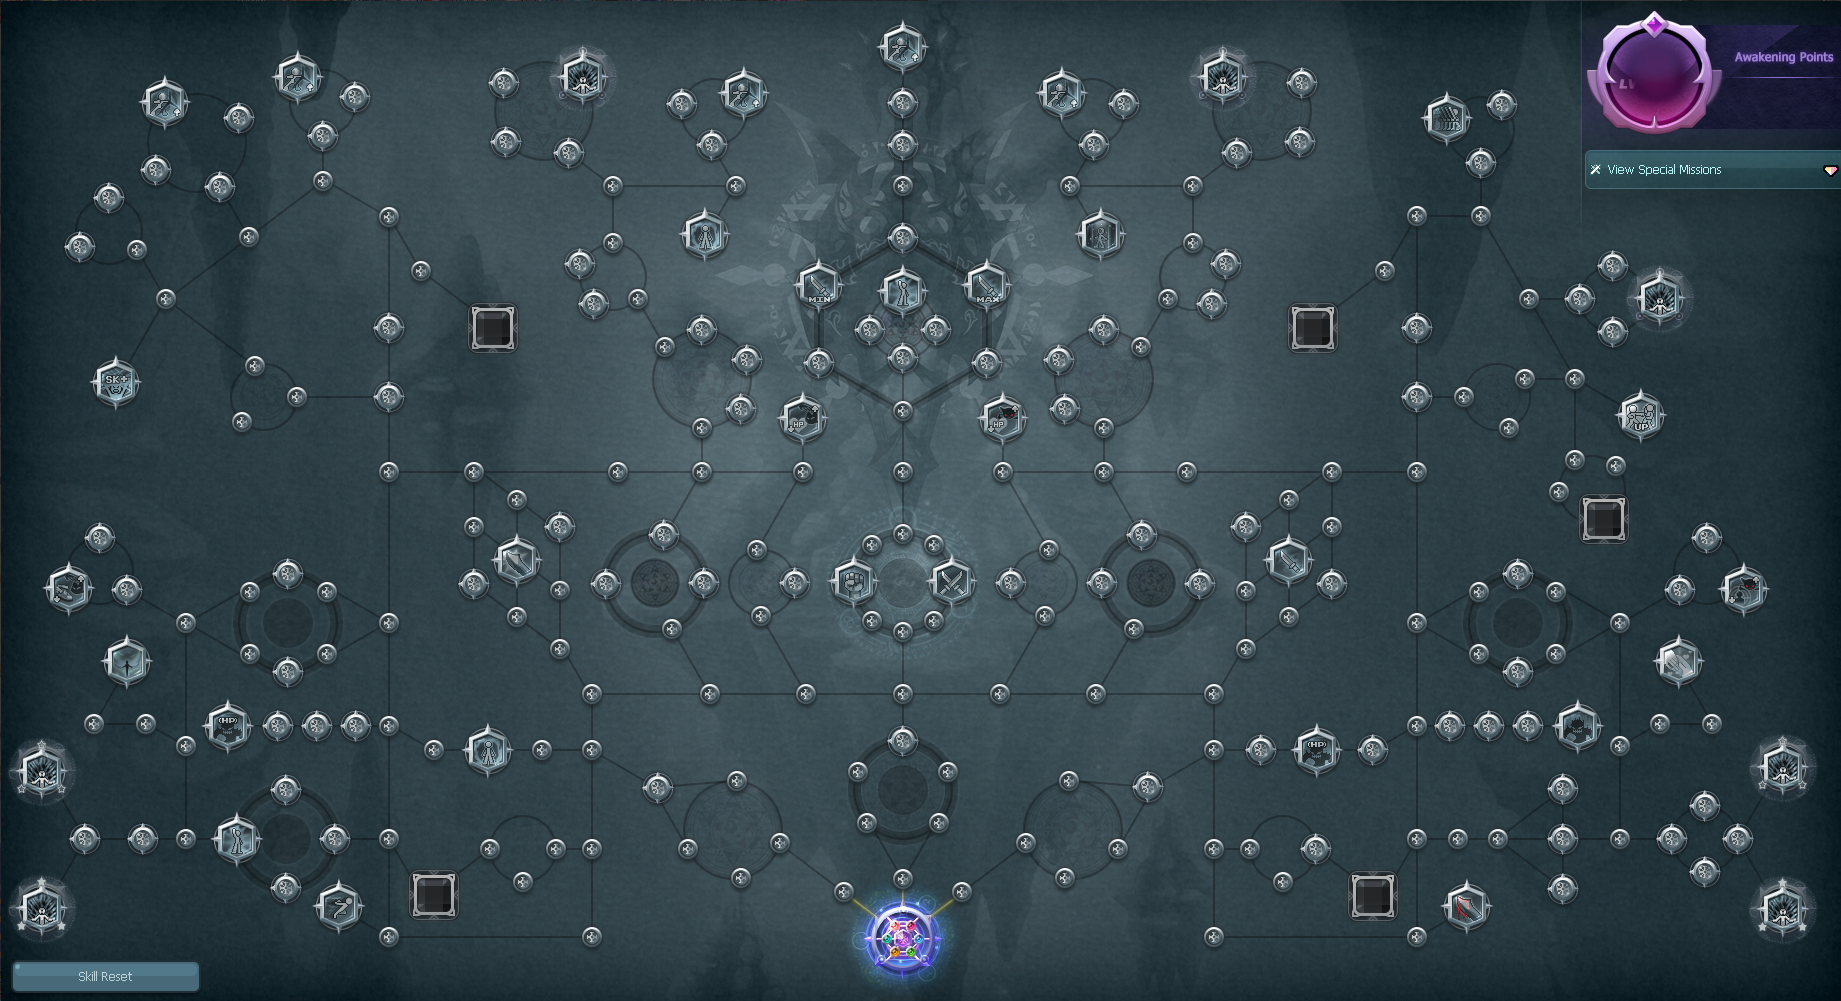
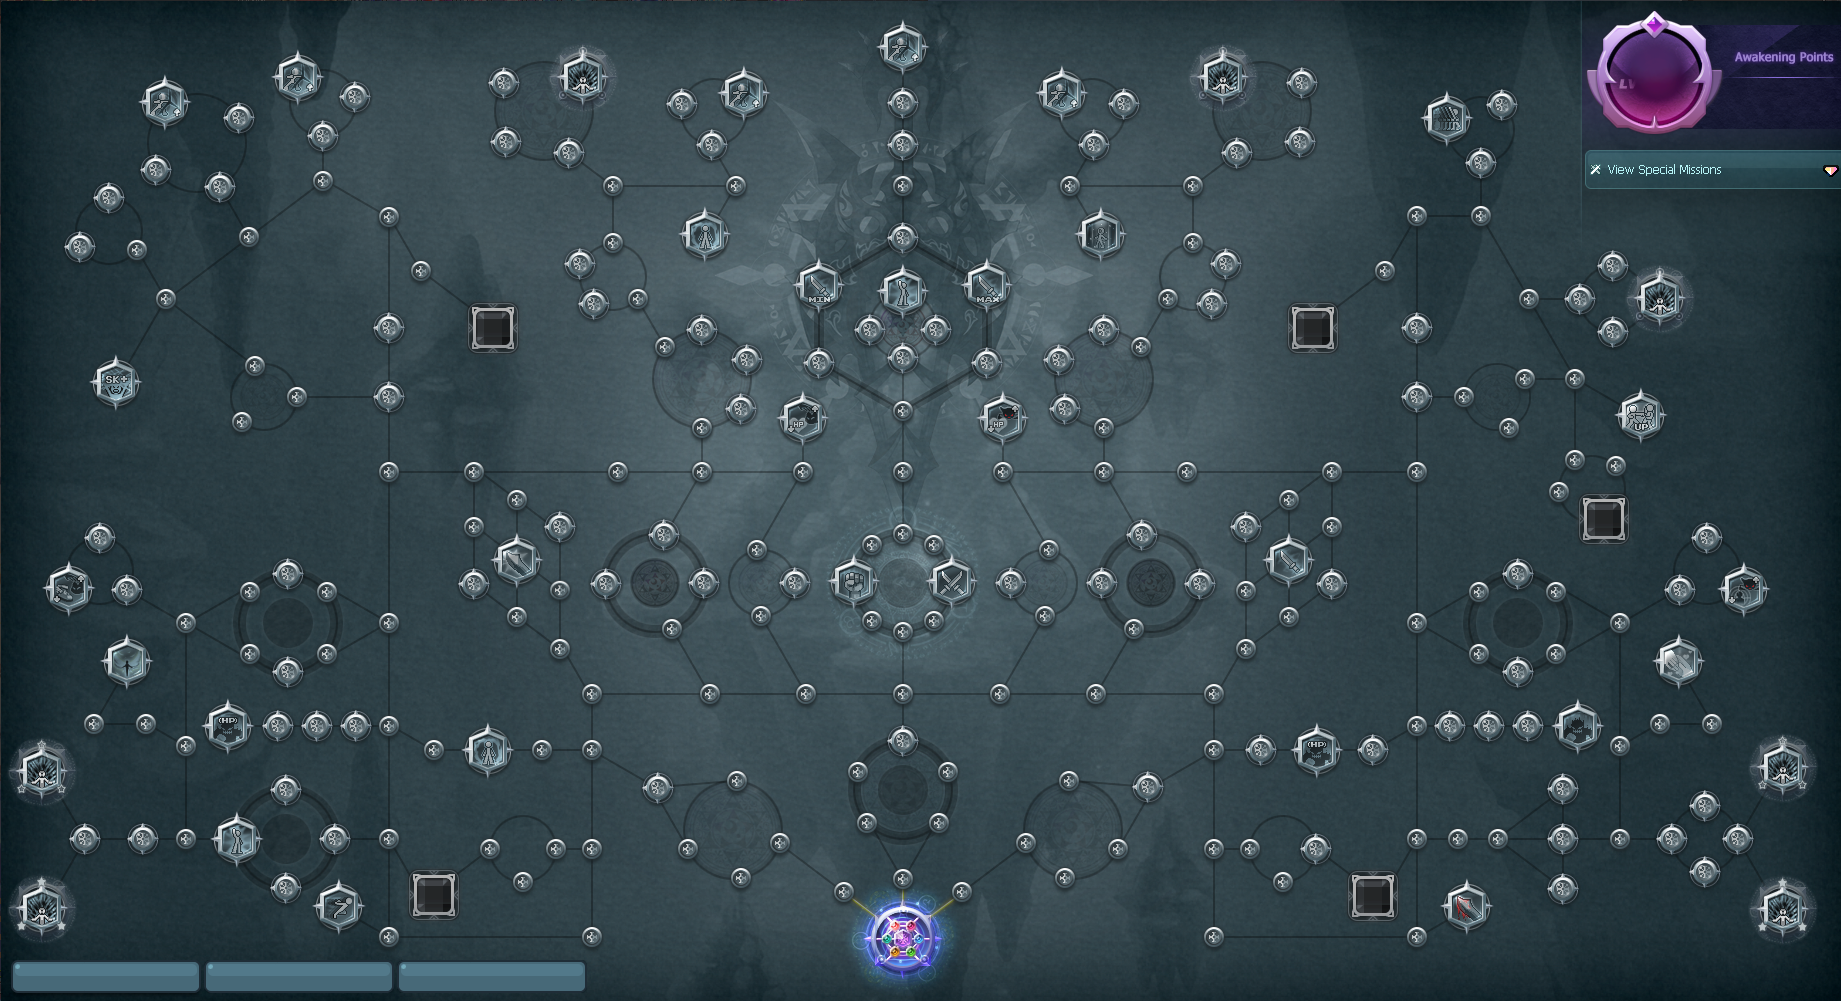
Implemented node prioritization and optimization

Changed region(s): [[0.0929, 0.96, 0.3406, 0.991]]

diff --git a/index.js b/index.js
@@ -1,5 +1,6 @@
 window.onload = init;
 var board = Object.assign({}, ...initialBoard.map((node) => ({[node.id]: {"id": node.id, "x": node.x, "y": node.y, "active": node.active, "connectedNodes": node.connectedNodes}})));
+var nodeSelectionEnabled = false;
 
 function init() {
 	let canvas = document.getElementById("board");
@@ -13,7 +14,18 @@ function init() {
 		console.log("Node: " + nodeId);
 		leftClick(nodeId, ctx);
 		if (isResetButton(position.x, position.y)) {
-			resetBoard(ctx);
+			resetBoard(true);
+			drawAll(ctx);
+		}
+		
+		if (isNodeSelectionButton(position.x, position.y)) {
+			nodeSelectionEnabled = !nodeSelectionEnabled;
+			drawAll(ctx);
+		}
+		
+		if (isOptimizeButton(position.x, position.y)) {
+			generateOptimalTree();
+			drawAll(ctx);
 		}
 	});
 	
@@ -23,6 +35,16 @@ function init() {
 		let position = getCursorPosition(canvas, e, ctx);
 		let nodeId = detectClickedNode(board, position.x, position.y);
 		rightClick(nodeId, ctx);
+	});
+	
+	canvas.addEventListener('mousedown', function(e) {
+		if (e.button == 1 || e.buttons == 4) {			
+			e.preventDefault();
+			
+			let position = getCursorPosition(canvas, e, ctx);
+			let nodeId = detectClickedNode(board, position.x, position.y);
+			middleClick(nodeId, ctx);
+		}
 	});
 	
 	drawAll(ctx);
@@ -45,6 +67,14 @@ function drawAll(ctx) {
 		ctx.fillStyle = "yellow";
 		ctx.font = '12px sans-serif';
 		ctx.fillText((pointsUsed - 1) + 'p', 1780, 97);
+		
+		ctx.fillStyle = "white";
+		ctx.font = '14px sans-serif';
+		ctx.fillText("Reset", 85, 981);
+		ctx.fillText("Optimize", 464, 981);
+		
+		ctx.fillStyle = nodeSelectionEnabled ? "yellow" : "white";
+		ctx.fillText("Select Nodes", 255, 981);
 	};
 }
 
@@ -56,14 +86,42 @@ function getCursorPosition(canvas, event, ctx) {
 	return { x, y };	
 }
 
+function isBelowPrioritizationLimit() {
+	// Limit optimal tree generation to use a max of 6 prioritized nodes due to computation time
+	let numberOfPrioritizeNodes = Object.values(board).filter(node => node.prioritize).length;
+	return numberOfPrioritizeNodes < 6;
+}
+
+function canTogglePriority(nodeId) {
+	return (isBelowPrioritizationLimit() || board[nodeId].prioritize);
+}
+
 function leftClick(nodeId, ctx) {
 	if (nodeId > 1) {
-		if (board[nodeId].active) {
-			deactivateAllDependentNodes(board[nodeId]);
-		} else if (!board[nodeId].active && hasActiveConnectedNode(board[nodeId]) && validateAwakeningSkillActivation(nodeId)) {
-			board[nodeId].active = true;
+		if (nodeSelectionEnabled && validateAwakeningSkillPrioritization(nodeId) && canTogglePriority(nodeId)) {
+			board[nodeId].prioritize = !board[nodeId].prioritize;
+		} else {
+			if (board[nodeId].active) {
+				deactivateAllDependentNodes(board[nodeId]);
+			} else if (!board[nodeId].active && hasActiveConnectedNode(board[nodeId]) && validateAwakeningSkillActivation(nodeId)) {	
+				board[nodeId].active = true;
+			}			
 		}
 			
+		drawAll(ctx);
+	}
+}
+
+function middleClick(nodeId, ctx) {
+	if (nodeId > 1 && validateAwakeningSkillPrioritization(nodeId) && canTogglePriority(nodeId)) {
+		board[nodeId].prioritize = !board[nodeId].prioritize;
+		drawAll(ctx);
+	}
+}
+
+function rightClick(nodeId, ctx) {
+	if (nodeId > 1) {
+		activateShortestPath(board[nodeId]);
 		drawAll(ctx);
 	}
 }
@@ -80,34 +138,58 @@ function validateAwakeningSkillActivation(nodeId) {
 		|| (nodeId == rightBottomSkillId && board[rightTopSkillId].active));
 }
 
+function validateAwakeningSkillPrioritization(nodeId) {
+	const leftTopSkillId = "205";
+	const leftBottomSkillId = "206";
+	const rightTopSkillId = "281";
+	const rightBottomSkillId = "282";
+	
+	return !((nodeId == leftTopSkillId && board[leftBottomSkillId].prioritize)
+		|| (nodeId == leftBottomSkillId && board[leftTopSkillId].prioritize)
+		|| (nodeId == rightTopSkillId && board[rightBottomSkillId].prioritize)
+		|| (nodeId == rightBottomSkillId && board[rightTopSkillId].prioritize));
+}
+
 function isResetButton(x, y) {
 	return x >= 12 && x <= 199 && y >= 962 && y <= 992;
 }
 
-function resetBoard(ctx) {
+function isNodeSelectionButton(x, y) {
+	return x >= 205 && x <= 392 && y >= 962 && y <= 992;
+}
+
+function isOptimizeButton(x, y) {
+	return x >= 399 && x <= 585 && y >= 962 && y <= 992;
+}
+
+function resetBoard(deprioritize) {
 	Object.keys(board).forEach(id => {
 		if (id > 1) {
 			board[id].active = false;
+			if (deprioritize) {				
+				board[id].prioritize = false;
+			}
 		}
 	});
-	
-	drawAll(ctx);
-}
-
-function rightClick(nodeId, ctx) {
-	if (nodeId > 1) {
-		activateShortestPath(board[nodeId]);
-		drawAll(ctx);
-	}
 }
 
 function renderNodes(nodes, ctx) {
 	for (const [id, node] of Object.entries(nodes)) {
 		ctx.beginPath();
 		ctx.arc(node.x, node.y, 10, 0, 2 * Math.PI);
+		ctx.lineWidth = 1;
+		ctx.strokeStyle = "black";
 		ctx.stroke();
 		ctx.fillStyle = node.active ? "#39FF14" : "#9B1003";
 		ctx.fill();
+		
+		if (node.prioritize) {
+			ctx.beginPath();
+			ctx.arc(node.x, node.y, 15, 0, 2 * Math.PI);
+			ctx.lineWidth = 4;
+			ctx.strokeStyle = "yellow";
+			ctx.stroke();
+		}
 	}
 }
 
@@ -174,12 +256,7 @@ function dfs(node, visited) {
 }
 
 function activateShortestPath(currentNode) {
-	let stopNodes = [];
-	Object.keys(board).forEach(id => {
-		if (board[id].active) {
-			stopNodes.push(board[id]);
-		}
-	});
+	let stopNodes = Object.values(board).filter(node => node.active);
 	
 	let currentBest = bfs(currentNode, stopNodes[0]);
 	currentBest.stopNode = stopNodes[0];
@@ -236,4 +313,47 @@ function getPath(pathMap, stopNode) {
 	}
 	
 	return path;
+}
+
+function generateOptimalTree() {
+	let targetNodes = Object.values(board).filter(node => node.prioritize).map(node => node.id);
+
+	let currentMin = Object.keys(board).length;
+	let currentBoard = structuredClone(board);
+	let permutations = getPermutations(targetNodes);
+	
+	for (let permutation of permutations) {
+		resetBoard(false);
+		for (let nodeId of permutation) {
+			activateShortestPath(board[nodeId]);
+		}
+		
+		let pointCount = Object.values(board).filter(node => node.active).length;
+		if (pointCount < currentMin) {
+			currentMin = pointCount;
+			currentBoard = structuredClone(board);
+		}
+	}
+	
+	board = currentBoard;
+}
+
+function getPermutations(array) {
+	let result = [];
+	permute(array, [], result);
+	return result;
+}
+
+function permute(array, permutation, result) {
+	if (array.length === 0) {
+		result.push(permutation)
+	} else {
+		for (let i = 0; i < array.length; i++) {
+			let current = array.slice();
+			let next = current.splice(i, 1);
+			permute(current, permutation.concat(next), result);
+		}
+	}
+	
+	return result;
 }
